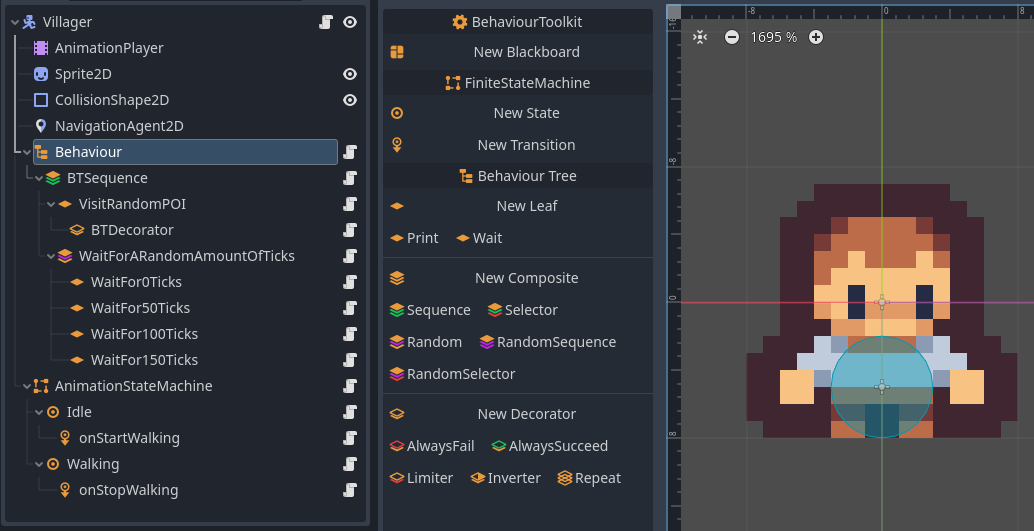
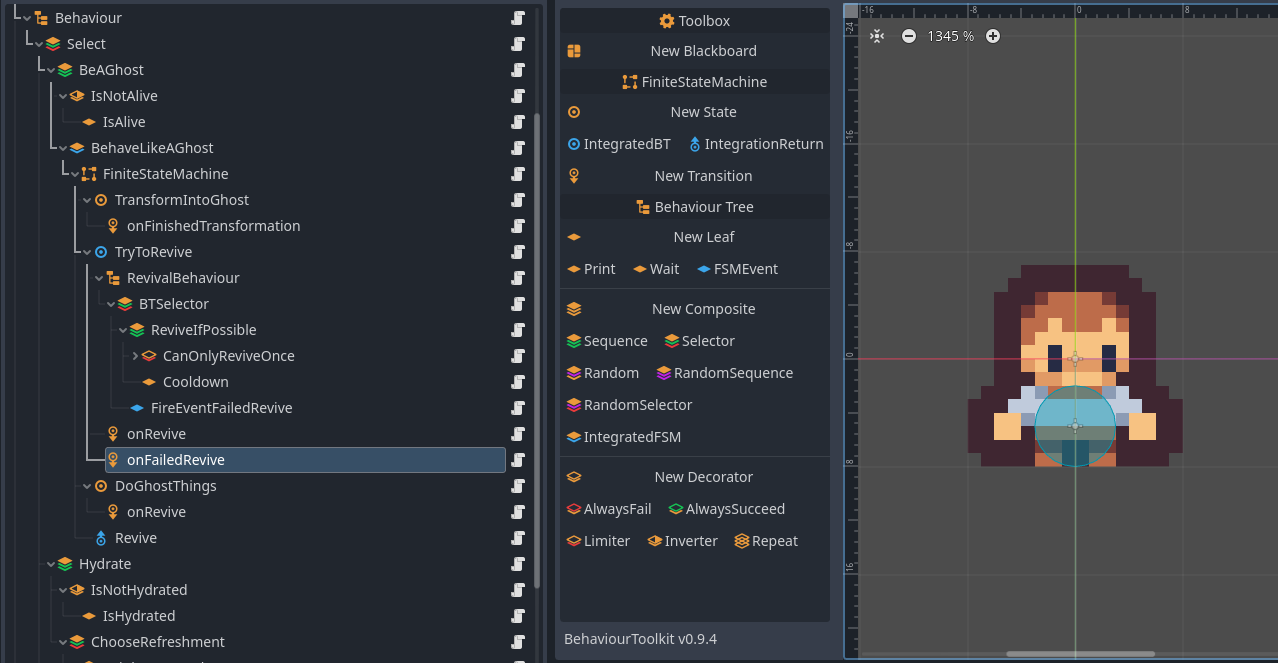
chore: updated README and docs

Changed region(s): [[0.0, 0.0, 1.0, 1.0]]

diff --git a/docs/documentation.md b/docs/documentation.md
@@ -31,6 +31,9 @@ This documenation will give you an overview of the most important properties & m
   - [Creating a new Blackboard](#creating-a-new-blackboard)
   - [When to use a Blackboard](#when-to-use-a-blackboard)
     - [Adding and retrieving data](#adding-and-retrieving-data)
+- [Nesting Behaviours inside Behaviours](#nesting-behaviours-inside-behaviours)
+  - [State Machine nested in Behaviour Tree](#state-machine-nested-in-behaviour-tree)
+  - [Behaviour Tree nested in State Machine](#behaviour-tree-nested-in-state-machine)
 - [Using Script Templates](#using-script-templates)
 - [Examples](#examples)
 
@@ -207,6 +210,17 @@ The `Blackboard` stores its data inside a `Dictionary`. You can add and retrieve
     - Returns the value of the given key. If the key does not exist, `null` will be returned.
 
 Additionally can also directly access the dictionary through the `content` property.
+
+
+
+# Nesting Behaviours inside Behaviours
+You can nest `BTRoot` nodes inside `FinitStateMachine` nodes and vice versa! Think of the respective node as another State/Leaf and you can use all the same logic to control the behaviour. This allows you to create very complex behaviours by combining different architectures.
+
+## State Machine nested in Behaviour Tree
+To nest a State Machine you need to use ![IntegradeFSM Icon](../addons/behaviour_toolkit/icons/BTCompositeIntegration.svg) `IntegratedFSM` composite node and add a `FiniteStateMachine` as a child. The `IntegratedFSM` node will then act as a leaf and execute the State Machine. If you want to exit the State Machine, you let it navigate to a ![Icon Return](../addons/behaviour_toolkit/icons/FSMStateIntegrationReturn.svg) `IntegratioReturn` state and the `IntegratedFSM` will return `SUCCESS` or `FAILURE` depending on the state's `return_status` property.
+
+## Behaviour Tree nested in State Machine
+To nest a Behaviour Tree you need to use ![IntegradeBT Icon](../addons/behaviour_toolkit/icons/FSMStateIntegration.svg) `IntegrationBT` state and add a `BTRoot` as a child. When this state is entered, the Behaviour Tree is set to active. You can use the `fire_event_on_status` property to fire an event when the Behaviour Tree returns a specific status. This allows you to trigger transitions based on the status of the Behaviour Tree. You can also use the `FSMEvent` leaf to trigger custom events inside the nested State Machine.
 
 
 

diff --git a/README.md b/README.md
@@ -29,9 +29,11 @@ This plugin provides a set of tools to create custom and complex behaviour in th
 - ![GEAR ICON](addons/behaviour_toolkit/icons/Gear.svg) Behaviour Architectures
     - ![FMS ICON](addons/behaviour_toolkit/icons/FiniteStateMachine.svg) Finite State Machine
     - ![BT ICON](addons/behaviour_toolkit/icons/BTRoot.svg) Behaviour Tree
+    - ![Integration Icon](addons/behaviour_toolkit/icons/BTCompositeIntegration.svg) Nest Behaviour Trees inside State Machines and vice versa!
 - ![BLACKBOARD ICON](addons/behaviour_toolkit/icons/Blackboard.svg) Blackboard Resource
 - Editor Interface
 - [Templates](docs/documentation.md#using-script-templates) for easy extension and integration.
+- Example Scene
 
 
 
@@ -52,5 +54,15 @@ Now you can implement your own behaviour logic using the virtual methods provide
   -   [Finite State Machine](docs/documentation.md#finite-state-machine)
   -   [Behaviour Tree](docs/documentation.md#behaviour-tree)
   -   [Blackboard](docs/documentation.md#-blackboard)
+  -   [Nesting Behaviours inside Behaviours](docs/documentation.md#nesting-behaviours-inside-behaviours)
   
 ![Screenshot](docs/screenshot-ui.PNG)
+
+
+
+## Notes 
+This is the first time I've ever made a bigger plugin for Godot, so I am happy for any suggestions, feedback and contributions. If you need help or have any questions, feel free to contact me on Discord (`thepat02`) or open an issue on GitHub!
+
+You can also [buy me a coffee](https://ko-fi.com/pat02) if you like the plugin and feel like supporting me :D
+
+Have fun creating awesome behaviours!
